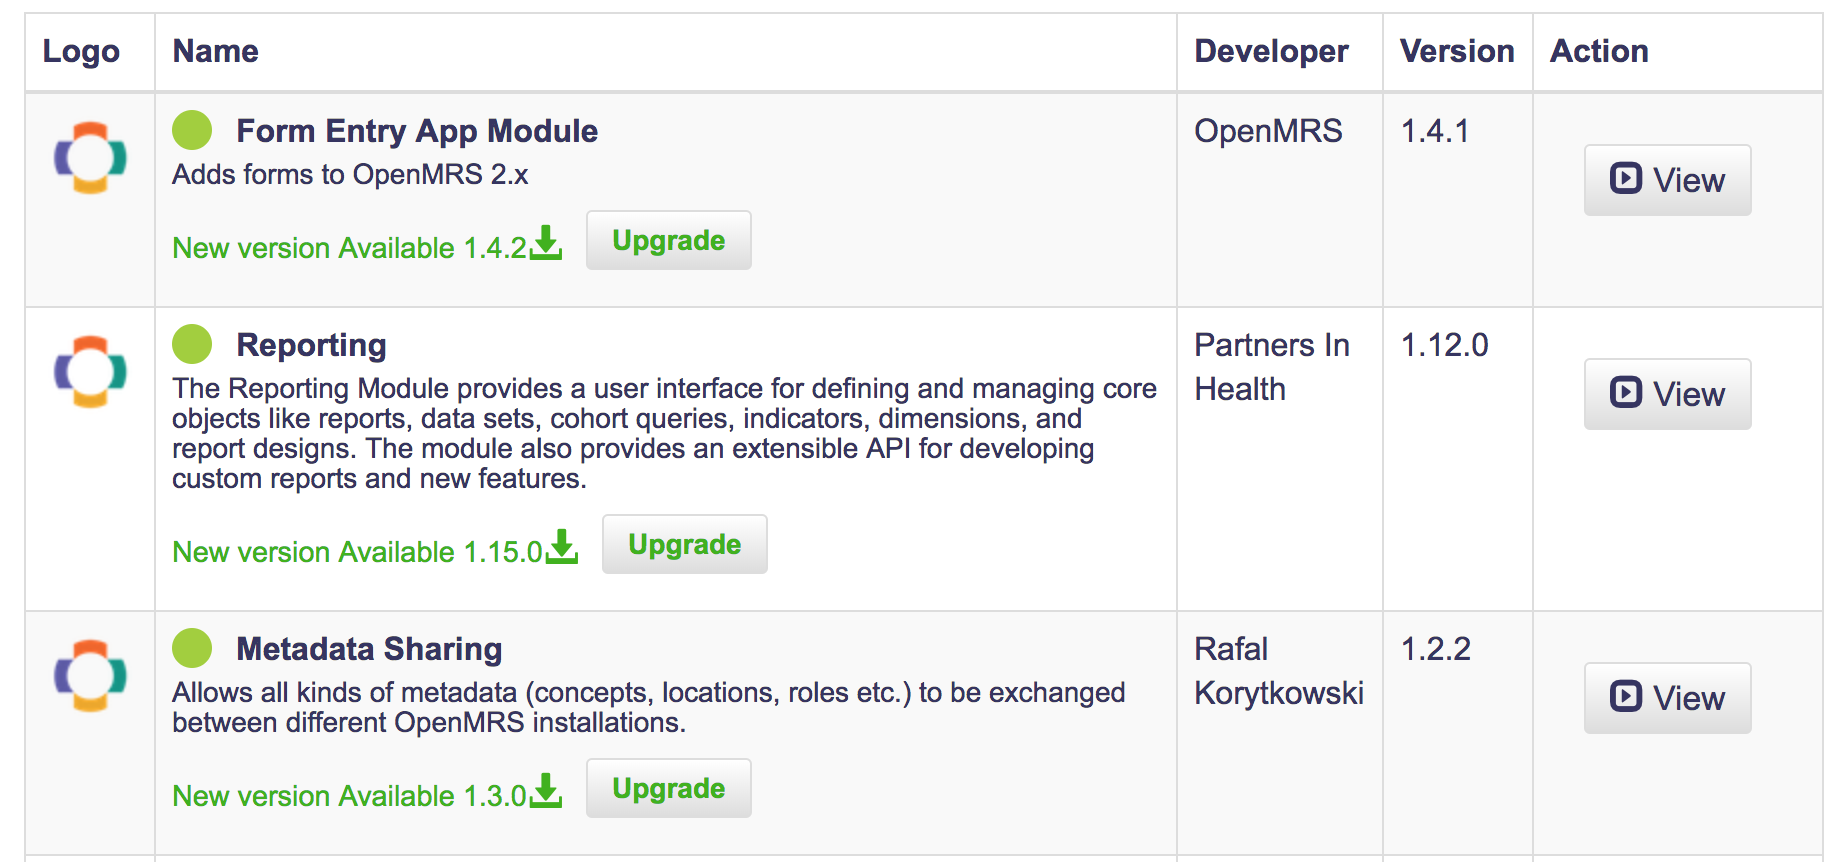
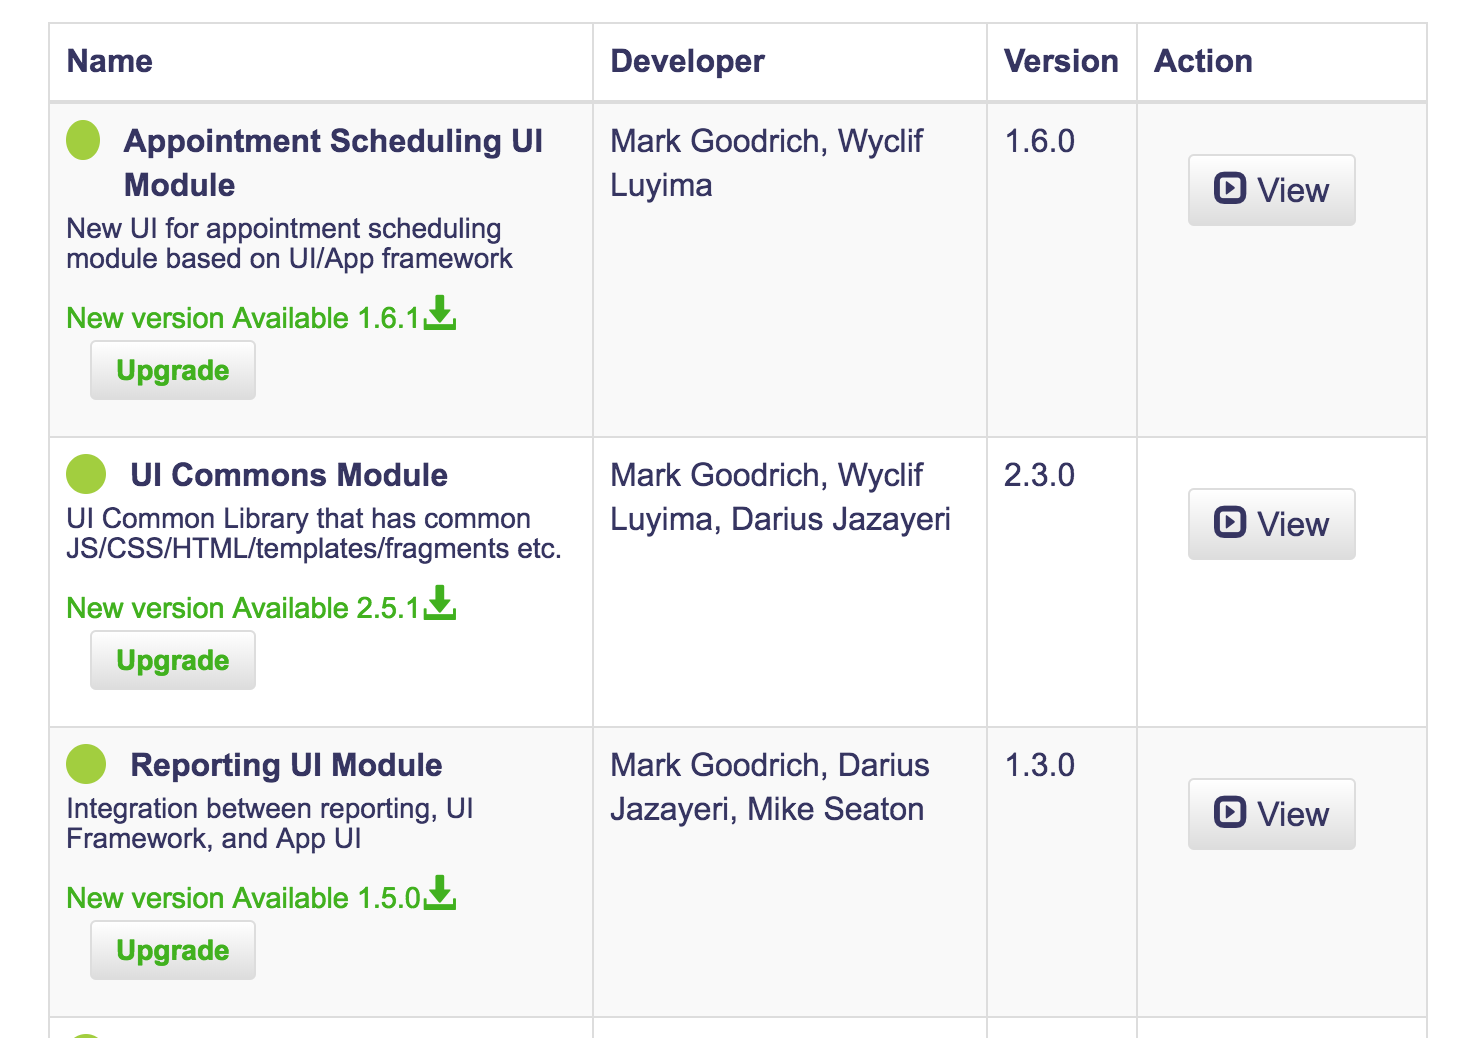
Proofreading and editing content on Add-on Manager (#125)

diff --git a/app/js/components/manageApps/Help.jsx b/app/js/components/manageApps/Help.jsx
@@ -87,24 +87,24 @@ export default class Help extends React.Component {
       AppFolderPathValue,
       AppStoreURLValue,
     } = this.state;
-
     return (
       <div>
         <div className="row">
           <div className="col-sm-6">
-            <h2 id="title-heading">Add On Manager</h2>
+            <h2 id="title-heading">Add-on Manager</h2>
           </div>
         </div>
         <div className="container-fluid" id="manage-settings">
           <form className="form-horizontal">
             <fieldset className="scheduler-border">
-              <legend className="scheduler-border">Having trouble?We're here to help</legend>
+              <legend className="scheduler-border">Having trouble? We're here to help</legend>
+
 
               <section>
                 <p><strong>How do you check for updates?</strong></p>
                 <p>To check for newer versions of installed addons click on the check for updates button
                   <img src={(checkforupdates)} className="help-page-images" alt="Add-On manager homepage" /><br />
-                      If any addons have updates they'll be in the resulting list e.g
+                  If any addons have updates they'll be in the resulting list e.g
                   <img src={(updateslist)} className="help-page-images" alt="Add-On manager homepage" /></p>
                 <p> The latest version will be displayed as shown above
                     A user can upgrade by clicking on the upgrade button or download the new file.
@@ -116,13 +116,13 @@ export default class Help extends React.Component {
                 <p>In order to view the interface of a particular module, you click on the view button as shown
                   <img src={(view)} className="help-page-images" alt="Add-On manager homepage" /><br /></p>
                 <p>When you click on a module, the resulting UI should be as shown below.Only modules have the stop and start button.When a module starts it is indicated by a green icon
-                   and when it stops, a red icon is displayed on the status.A stopped module is still loaded, it just doesn't have any effect on the system</p>
+                                and when it stops, a red icon is displayed on the status.A stopped module is still loaded, it just doesn't have any effect on the system</p>
                 <p><strong>The start icon</strong></p>
                 <img src={(start)} className="help-page-images" alt="Add-On manager homepage" />
                 <p>If you start a module while the modules it depends on to run are not started, that module will not start.</p>
                 <p><strong>The stop icon</strong></p>
                 <img src={(stop)} className="help-page-images" alt="Add-On manager homepage" /><br />
-                                Additionally, stopping a module that is depended on by other modules will cause all dependent modules to stop
+                Additionally, stopping a module that is depended on by other modules will cause all dependent modules to stop
                 <p>You might want to start all the modules at once.This has been made possible by simply clicking on the start all modules button as shown</p>
                 <img src={(startingallmodules)} className="help-page-images" alt="Add-On manager homepage" />
 

diff --git a/tests/components/SingleAddon.test.js b/tests/components/SingleAddon.test.js
@@ -95,24 +95,12 @@ describe('<SingleAddon/>', () => {
     expect(addonComponent.find("tr")).to.have.length(1);
   });
 
-  it('Should render 5 td tags', () => {
-    expect(addonComponent.find("td")).to.have.length(5);
+  it('Should render 4 td tags', () => {
+    expect(addonComponent.find("td")).to.have.length(4);
   });
 
   it('Should render 3 div tags', () => {
     expect(addonComponent.find("div")).to.have.length(3);
-  });
-
-  it('Should render an image tag', () => {
-    expect(addonComponent.find("img")).to.have.length(1);
-  });
-
-  it('Should render an image tag', () => {
-    expect(addonComponent.find("img")).to.have.length(1);
-  });
-
-  it('Should render app icon', () => {
-    expect(addonComponent.find("img").html()).to.contain(owa.appDetails.icons[48]);
   });
 
   it('Should render correct status icon', () => {
@@ -120,15 +108,15 @@ describe('<SingleAddon/>', () => {
   });
 
   it('Should render app name', () => {
-    expect(addonComponent.find("td").at(1).html()).to.contain(owa.appDetails.name);
+    expect(addonComponent.find("td").at(1).html()).to.contain(owa.appDetails.developer.name);
   });
 
   it('Should render app developer name', () => {
-    expect(addonComponent.find("td").at(2).html()).to.contain(owa.appDetails.developer.name);
+    expect(addonComponent.find("td").at(1).html()).to.contain(owa.appDetails.developer.name);
   });
 
   it('Should render app version', () => {
-    expect(addonComponent.find("td").at(3).html()).to.contain(owa.appDetails.version);
+    expect(addonComponent.find("td").at(2).html()).to.contain(owa.appDetails.version);
   });
 
   it('Should render app of type owa', () => {

diff --git a/app/js/components/manageApps/ManageApps.jsx b/app/js/components/manageApps/ManageApps.jsx
@@ -95,7 +95,7 @@ export default class ManageApps extends React.Component {
         this.hideModal();
       }
     });
-    document.title = "Add-On Manager";
+    document.title = "Add-on Manager";
   }
 
   startAllModules() {
@@ -910,12 +910,12 @@ export default class ManageApps extends React.Component {
         <div className="main-home-page" id="body-wrapper">
           <div className="row">
             <div className="col-sm-12">
-              <h2 className="manage-addon-title">Add-On Manager</h2>
+              <h2 className="manage-addon-title">Add-on Manager</h2>
               <span className="pull-right manage-settings-wrapper" />
               <span className="pull-right manage-settings-wrapper">
                 <span id="startall-modules-btn"
                   className="btn btn-secondary"
-                  onClick={updatesAvailable ? this.clearUpdates : this.checkForUpdates}>{updatesAvailable ? 'Back to all Addons' : 'Check for Updates'}</span>
+                  onClick={updatesAvailable ? this.clearUpdates : this.checkForUpdates}>{updatesAvailable ? 'Back to all Add-ons': 'Check for Updates'}</span>
                 <span
                   id="startall-modules-btn"
                   className="btn btn-secondary"
@@ -964,7 +964,6 @@ export default class ManageApps extends React.Component {
                   <table className="table table-bordered table-striped table-hover">
                     <thead>
                       <tr>
-                        <th>Logo</th>
                         <th>Name</th>
                         <th>Developer</th>
                         <th>Version</th>

diff --git a/tests/components/ManageAddon.test.js b/tests/components/ManageAddon.test.js
@@ -30,26 +30,24 @@ describe('<ManageApps />', () => {
         expect(renderedComponent.find("tr")).to.have.length(2);
     });
 
-    it('Should render 6 table head', () => {
-        expect(renderedComponent.find("th")).to.have.length(6);
+    it('Should render 5 table head', () => {
+        expect(renderedComponent.find("th")).to.have.length(5);
     });
 
     it('Should render a heading', () => {
         expect(renderedComponent.find("h2")).to.have.length(1);
         expect(renderedComponent.find("h2").getNode()
-          .props.children).to.equal('Add-On Manager');
+          .props.children).to.equal('Add-on Manager');
     });
 
     it('Should render 5 table head titles', () => {
         expect(renderedComponent.find("th").getNodes()[0]
-            .props.children).to.equal('Logo');
-        expect(renderedComponent.find("th").getNodes()[1]
             .props.children).to.equal('Name');
-        expect(renderedComponent.find("th").getNodes()[2]
+        expect(renderedComponent.find("th").getNodes()[1]
             .props.children).to.equal('Developer');
-        expect(renderedComponent.find("th").getNodes()[3]
+        expect(renderedComponent.find("th").getNodes()[2]
             .props.children).to.equal('Version');
-        expect(renderedComponent.find("th").getNodes()[4]
+        expect(renderedComponent.find("th").getNodes()[3]
             .props.children).to.equal('Action');
     });
 

diff --git a/tests/components/AddonList.test.js b/tests/components/AddonList.test.js
@@ -121,19 +121,15 @@ describe('<AddonList />', () => {
     });
 
     it('should render td tag', () => {
-        expect(testAddonList.find("td")).to.have.length(10);
-        expect(searchedAddonslist.find("td")).to.have.length(10);
+        expect(testAddonList.find("td")).to.have.length(8);
+        expect(searchedAddonslist.find("td")).to.have.length(8);
     });
 
     it('should render a h2 tag', () => {
         expect(testAddonList.find("h5")).to.have.length(2);
         expect(searchedAddonslist.find("h5")).to.have.length(2);
     });
-
-    it('should render a image tag', () => {
-        expect(testAddonList.find("img")).to.have.length(2);
-        expect(searchedAddonslist.find("img")).to.have.length(2);
-    });
+    
     it('should render child table correctly', () => {
         expect(testAddonList.find('tbody').children()).to.have.length(appList.length);
         expect(searchedAddonslist.find('tbody').children()).to.have.length(appList.length);

diff --git a/app/js/components/breadCrumb/BreadCrumbComponent.jsx b/app/js/components/breadCrumb/BreadCrumbComponent.jsx
@@ -101,14 +101,14 @@ class BreadCrumbComponent extends Component {
               <span className="glyphicon glyphicon-chevron-right breadcrumb-item separator"
                 aria-hidden="true" />
               <span className="title breadcrumb-item">
-                <u>Add-On Manager</u>
+                <u>Add-on Manager</u>
               </span>
             </Link> :
             <Link to="/">
               <span className="glyphicon glyphicon-chevron-right breadcrumb-item separator"
                 aria-hidden="true" />
               <span className="title breadcrumb-item">
-                <strong>Add-On Manager</strong>
+                <strong>Add-on Manager</strong>
               </span>
             </Link>
         }

diff --git a/app/js/components/manageApps/SingleAddon.jsx b/app/js/components/manageApps/SingleAddon.jsx
@@ -67,16 +67,6 @@ export default class SingleAddon extends React.Component {
     return (
       <tr key={key}>
         <td>
-          <img
-            src={app.appDetails &&
-              app.appDetails.icon !== null &&
-              app.appDetails.icons !== undefined ?
-              `/${location.href.split('/')[3]}/owa/openmrs-addonmanager/${app.appDetails.icons[48]}` :
-              `./img/omrs-button.png`}
-            alt="addon logo"
-          />
-        </td>
-        <td>
           <div className="addon-name">
             {
               app.appType === "owa"?

diff --git a/app/js/components/manageApps/ManageSettings.jsx b/app/js/components/manageApps/ManageSettings.jsx
@@ -64,7 +64,7 @@ export default class ManageSettings extends React.Component {
       return { 
         AppFolderPathValue: settingsPaths != undefined ? settingsPaths[0].propertyValue : appFolderPath,
         AppBaseURLValue: settingsPaths != undefined ? settingsPaths[1].propertyValue : '/owa',
-        AppStoreURLValue: settingsPaths != undefined ? settingsPaths[2].propertyValue : 'http://modules.openmrs.org',
+        AppStoreURLValue: 'http://addons.openmrs.org'
       };
     });
   }

diff --git a/tests/components/Breadcrumb.test.js b/tests/components/Breadcrumb.test.js
@@ -24,7 +24,7 @@ describe('<BreadCrumbComponent />', () => {
     });
 
     it('Should render a `Add-On Manager` in a span', () => {
-        expect(breadCrumb.find("span").getNodes()[2].props.children.props.children).equals("Add-On Manager");
+        expect(breadCrumb.find("span").getNodes()[2].props.children.props.children).equals("Add-on Manager");
     });
 
     it('Should render a `Manage app` in a span', () => {

diff --git a/app/js/components/manageApps/AddAddon.jsx b/app/js/components/manageApps/AddAddon.jsx
@@ -43,7 +43,7 @@ export default class AddAddon extends Component {
     return (
       <div className="container-fluid">
         <div className="row drop-zone-container">
-          <span>Select an Add-On to upload</span>
+          <span>Select an Add-on to upload</span>
           <Dropzone
             className="drop-zone"
             acceptClassName="drop-zone-accept"

diff --git a/tests/components/AddAddon.test.js b/tests/components/AddAddon.test.js
@@ -30,7 +30,7 @@ describe('<AddAddon />', () => {
     });
 
     it('Should display select Add-On message', () => {
-        expect(renderedComponent.text()).to.contain('Select an Add-On');
+        expect(renderedComponent.text()).to.contain('Select an Add-on');
     });
 
     it('Should have true disableClick initial state', function () {

diff --git a/app/css/openmrs-addonmanager.css b/app/css/openmrs-addonmanager.css
@@ -596,8 +596,8 @@ body.loading .waiting-modal {
     background: #dddddd;
     border: 2px solid #dddddd;
     font-size: 1.2em;
-    height: 120px;
-    line-height: 120px;
+    height: 60px;
+    line-height: 60px;
     margin-left: 15px;
     margin-top: 10px;
     outline: 2px dashed #BBBBBB;
